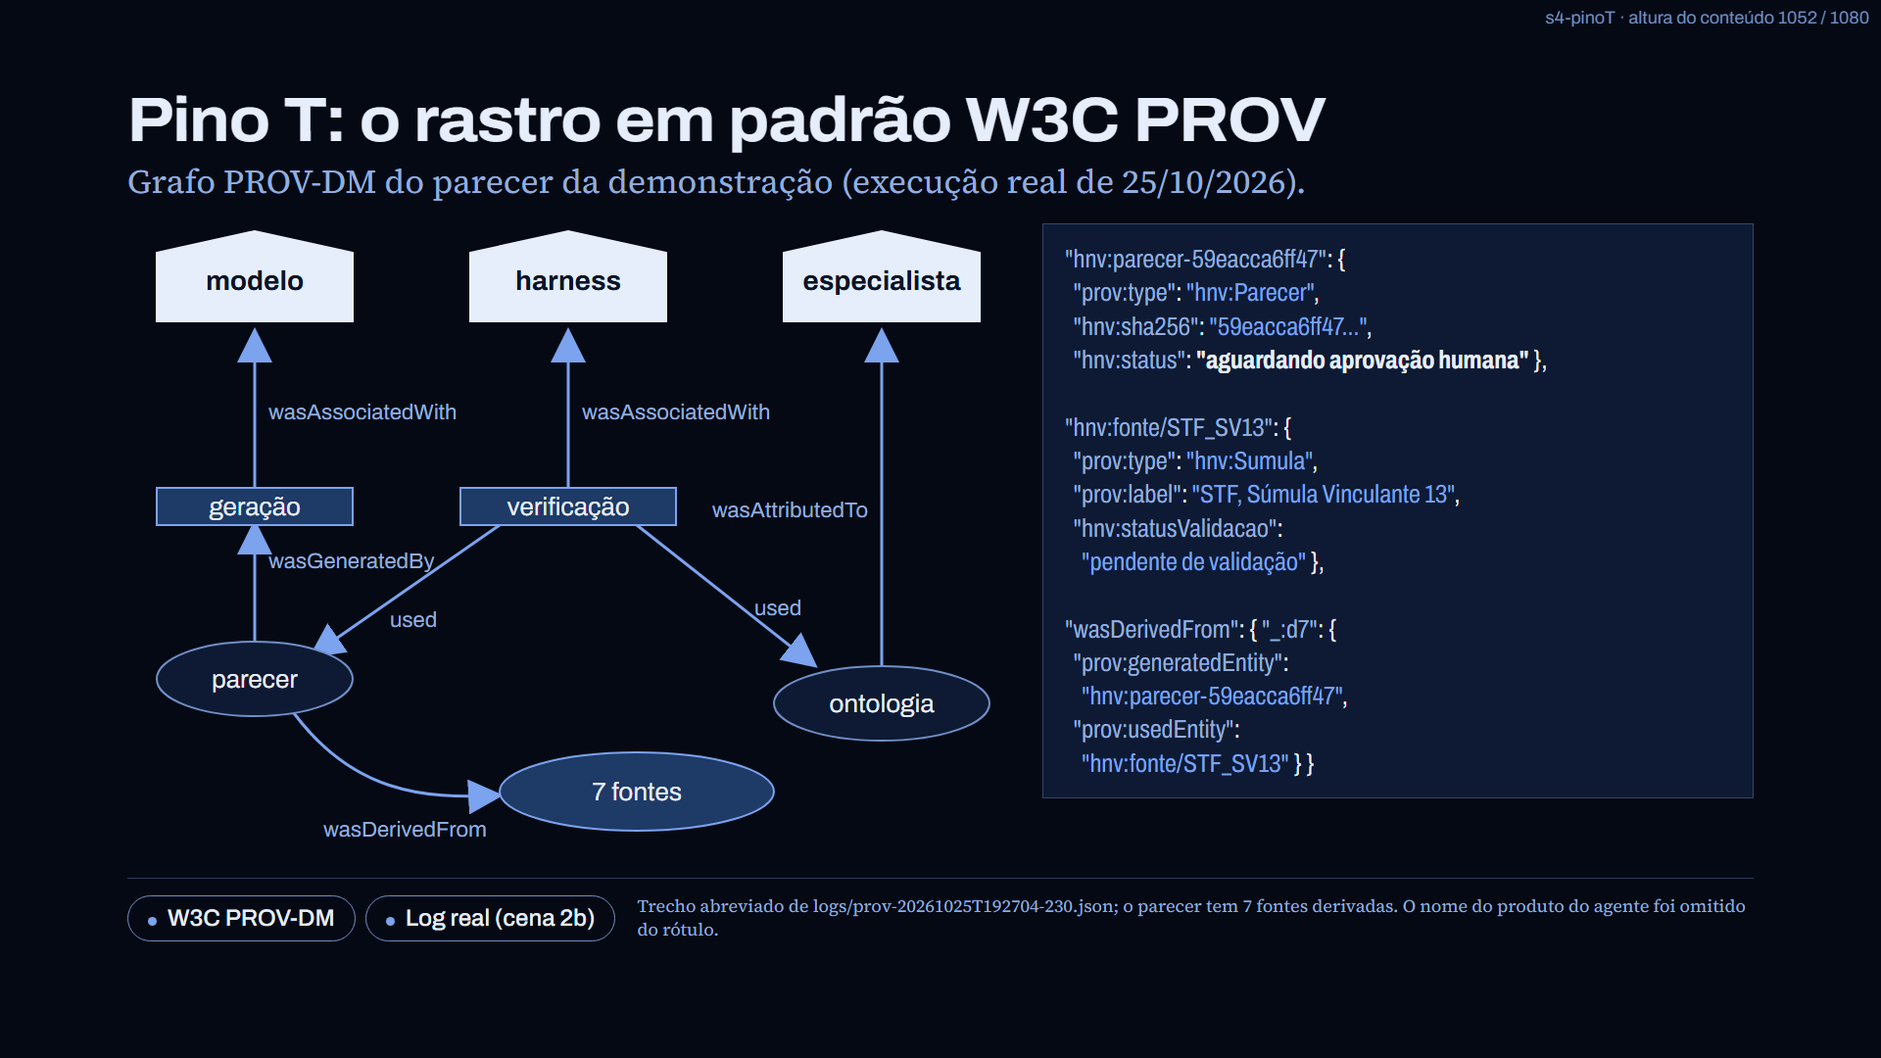
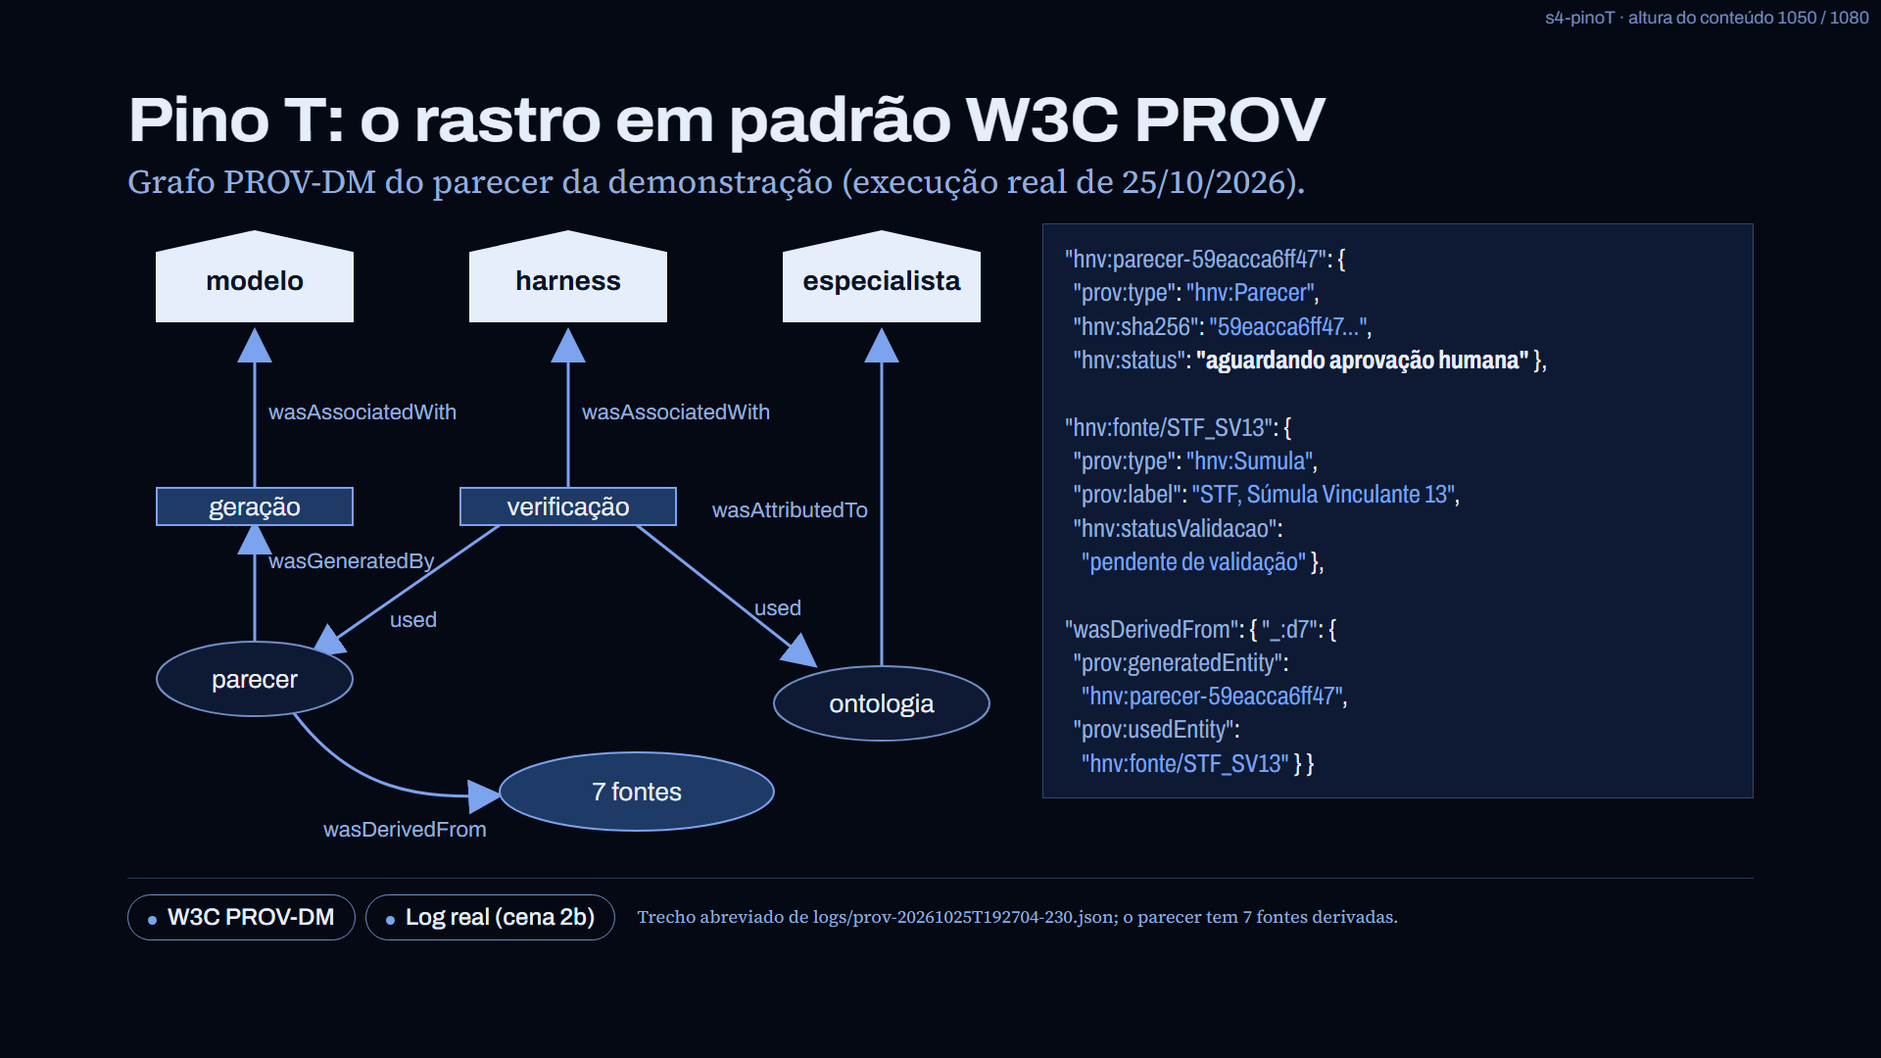
Replay e registro PROV voltam ao texto literal dos logs; auditor tolera log real e o nome da ferramenta

Changed region(s): [[0.2188, 0.8556, 0.9062, 0.8861], [0.0938, 0.8556, 0.1875, 0.8861]]

diff --git a/web/demo/replay.html b/web/demo/replay.html
@@ -23,7 +23,7 @@
 
 const MAPA={bloq:"block",alerta:"err",ambar:"block",ciano:"ok"};
 const cls=c=>MAPA[c]||c;
-const E=[[0,"titulo","Cena 1 · Sem harness","","Modelo local qwen2.5:3b (Ollama, CPU) · sem ontologia, sem hook"],[2313,"limpar","","",""],[266,"legenda","Pedido natural de um servidor público","","Pedido"],[266,"cmd","py cenas/cena1_sem_harness.py --modelo qwen2.5:3b --rodada 1","",""],[800,"linha","Pedido: parecer curto — secretário quer nomear sobrinho da esposa para cargo em comissão. É permitido?","dim",""],[622,"linha","... gerando (107 s reais em CPU, 5.07 tokens/s - acelerado no replay)","dim",""],[800,"linha","Parecer Jurídico","out",""],[800,"linha","A respeito da nomeação do sobrinho da esposa do Secretário Municipal de Administração para um cargo em comissão de assessor na própria secretaria, apresentamos o seguinte parecer:","out",""],[1067,"linha","Segundo o Artigo 37, inciso XXXIII, da Constituição Federal de 1988, é vedado ao servidor público dar nomeação [...] a parente colateral até terceiro grau.","alerta",""],[711,"linha","[...]","dim",""],[800,"legenda","Alucinação: \"art. 37, inciso XXXIII, da Constituição Federal\" não existe - o art. 37 termina no inciso XXII","ambar","Alucinação"],[2313,"linha","checagem manual (planalto.gov.br): INEXISTENTE (alucinação)","bloq",""],[2135,"linha","Nas 3 rodadas: citação inexistente ou falsa; nenhuma citou a Súmula Vinculante 13.","dim",""],[3203,"limpar","","",""],[0,"titulo","Cena 2 · Com HNV","","agente de código (modelo médio) + skill (guia macio) + hook (regra dura) + ontologia + PROV"],[2313,"limpar","","",""],[266,"legenda","2a · mesmo pedido, agora dentro do harness","","Harness"],[266,"cmd","agente -p \"Sou servidor de uma prefeitura. O secretário municipal d...","",""],[444,"linha","","dim",""],[800,"linha","● Skill(parecer-administrativo)","tool",""],[800,"linha","● Read(ontologia/fontes.json)","tool",""],[800,"linha","● Write(saida/parecer.md)","tool",""],[622,"linha","  ⎿ hook PostToolUse:Write → exit 0","dim",""],[444,"linha","HNV · OK - parecer.md: 13 citação(ões) conferida(s) na ontologia.","ok",""],[444,"linha","Admissibilidade = Evidência ∧ Norma ∧ Rastreabilidade = V ∧ V ∧ V","ok",""],[444,"linha","Status: aguardando aprovação humana (Liberação = Admissibilidade ∧ Humano).","ok",""],[444,"linha","Proveniência: logs/prov-20261025T192352-629.json","out",""],[622,"legenda","Sem erro de citação: 13 citações conferidas na ontologia","ciano","OK"],[2847,"limpar","","",""],[266,"legenda","2b · o rascunho alucinado da cena 1 (rodada 2) entra no agente de código","","Teste"],[266,"cmd","agente -p \"O modelo local da prefeitura gerou um rascunho de parece...","",""],[444,"linha","","dim",""],[800,"linha","● Read(logs/cena1/parecer_cena1_rodada2.md)","tool",""],[800,"linha","● Skill(parecer-administrativo)","tool",""],[800,"linha","● Read(ontologia/fontes.json)","tool",""],[800,"linha","● Write(saida/parecer-rascunho-local.md)","tool",""],[622,"linha","  ⎿ hook PostToolUse:Write → exit 2","bloq",""],[177,"legenda","Bloqueio: a regra dura devolve o erro ao modelo (exit 2)","ambar","Bloqueio"],[578,"linha","HNV · BLOQUEIO (regra dura) - parecer-rascunho-local.md não é admissível.","bloq",""],[578,"linha","Admissibilidade = Evidência ∧ Norma ∧ Rastreabilidade = F ∧ F ∧ F","out",""],[578,"linha","Citações bloqueadas (2):","out",""],[578,"linha","  1. \"artigo 37, inciso XXXIII, da Constituição Federal\" -> art. 37, XXXIII de CF/88: dispositivo não consta na ontologia validada","bloq",""],[578,"linha","  2. \"Decreto nº 4.653/2002\" -> \"Decreto nº 4.653/2002\" não consta na ontologia validada pelo especialista","bloq",""],[578,"linha","Falta ao menos uma fonte normativa (Norma, Dispositivo ou Súmula) da ontologia.","bloq",""],[578,"linha","Fontes aceitas: 15 citações da ontologia, ex.: [STF, Súmula Vinculante 13]; [CF/88, art. 37, caput] ...","dim",""],[578,"linha","Corrija: substitua cada citação bloqueada por fonte aceita. Não fabrique fontes.","dim",""],[578,"linha","Proveniência: logs/prov-20261025T192654-721.json","out",""],[1601,"pausa","","",""],[533,"legenda","Correção: o modelo reescreve usando só fontes validadas","ciano","Correção"],[800,"linha","● Write(saida/parecer-rascunho-local.md)","tool",""],[622,"linha","  ⎿ hook PostToolUse:Write → exit 0","dim",""],[444,"linha","HNV · OK - parecer-rascunho-local.md: 9 citação(ões) conferida(s) na ontologia.","ok",""],[444,"linha","Admissibilidade = Evidência ∧ Norma ∧ Rastreabilidade = V ∧ V ∧ V","ok",""],[444,"linha","Status: aguardando aprovação humana (Liberação = Admissibilidade ∧ Humano).","ok",""],[444,"linha","Proveniência: logs/prov-20261025T192704-230.json","out",""],[2135,"limpar","","",""],[0,"legenda","Proveniência: cada parecer gera um log W3C PROV","ciano","Proveniência"],[266,"cmd","cat logs/prov-20261025T192704-230.json","",""],[373,"linha","{","json",""],[373,"linha","  \"entity\": { \"parecer\": { \"arquivo\": \"saida/parecer-rascunho-local.md\", \"sha256\": \"59eacca6ff475396…\",","json",""],[373,"linha","               \"status\": \"aguardando aprovação humana\" } },","ok",""],[373,"linha","  \"agent\": { \"modelo\": \"modelo do agente de código (sessão 68ea8c1c)\",","json",""],[373,"linha","             \"harness\": \"HNV verificar_citacoes.py v0.1.0\",","json",""],[373,"linha","             \"especialista\": \"Alexandre Pinto Calaes\" },","json",""],[373,"linha","  \"wasDerivedFrom\": [CF88_art37_V, CF88_art37_caput, CF88_art37_par4, DEC7203_art2_III, … (7 fontes)],","json",""],[373,"linha","  \"formula\": { \"evidencia\": true, \"norma\": true, \"rastreabilidade\": true,","ok",""],[373,"linha","              \"admissibilidade\": true, \"aprovacao_humana\": false, \"liberacao\": false }","ok",""],[373,"linha","}","json",""],[1334,"selo","Aguardando aprovação humana","","Liberação = Admissibilidade ∧ Humano"],[3737,"limpar","","",""],[0,"titulo","Bônus · Laço local gerar → verificar → corrigir","","qwen2.5:3b via API do Ollama · máx. 3 rodadas"],[2135,"limpar","","",""],[266,"cmd","py harness/laco_local.py","",""],[800,"linha","rodada 1 · 82 s · exit 2 · 3 citação(ões) bloqueada(s)","bloq",""],[338,"linha","  1. \"artigo 37, inciso XXXVII\" -> art. 37, XXXVII de CF/88: dispositivo não consta na ontologia validada","dim",""],[338,"linha","  2. \"artigo 37, inciso XXXVIII\" -> art. 37, XXXVIII sem norma identificável (não rastreável) - use o formato padronizado, ex.: [CF/88, art. 37, caput]","dim",""],[338,"linha","  3. \"Decreto-Lei nº 2.201/67\" -> \"Decreto-Lei nº 2.201/67\" não consta na ontologia validada pelo especialista","dim",""],[800,"linha","rodada 2 · 202 s · exit 2 · 3 citação(ões) bloqueada(s)","bloq",""],[338,"linha","  1. \"Decreto-Lei nº 2.201/67\" -> \"Decreto-Lei nº 2.201/67\" não consta na ontologia validada pelo especialista","dim",""],[338,"linha","  2. \"Decreto-Lei nº 2.201/67\" -> \"Decreto-Lei nº 2.201/67\" não consta na ontologia validada pelo especialista","dim",""],[338,"linha","  3. \"Resolução 7/2005\" -> \"Resolução 7/2005\" não consta na ontologia validada pelo especialista","dim",""],[800,"linha","rodada 3 · 232 s · exit 2 · 1 citação(ões) bloqueada(s)","bloq",""],[338,"linha","  1. \"Resolução 7/2005\" -> \"Resolução 7/2005\" não consta na ontologia validada pelo especialista","dim",""],[800,"linha","Resultado: bloqueado após o limite de rodadas","bloq",""],[444,"legenda","Modelo pequeno não convergiu em 3 rodadas: o harness não libera","ambar","Bloqueio"],[3381,"limpar","","",""],[0,"titulo","Skill orienta · Hook decide · Ontologia ancora · PROV registra · Humano libera","","Camada simbólica definida pelo especialista - execução real, logs no repositório"],[4449,"fim","","",""]];const $=i=>document.getElementById(i),T=$("t"),G=$("g"),K=$("k"),S=$("s");
+const E=[[0,"titulo","Cena 1 · Sem harness","","Modelo local qwen2.5:3b (Ollama, CPU) · sem ontologia, sem hook"],[2313,"limpar","","",""],[266,"legenda","Pedido natural de um servidor público","","Pedido"],[266,"cmd","py cenas/cena1_sem_harness.py --modelo qwen2.5:3b --rodada 1","",""],[800,"linha","Pedido: parecer curto — secretário quer nomear sobrinho da esposa para cargo em comissão. É permitido?","dim",""],[622,"linha","... gerando (107 s reais em CPU, 5.07 tokens/s - acelerado no replay)","dim",""],[800,"linha","Parecer Jurídico","out",""],[800,"linha","A respeito da nomeação do sobrinho da esposa do Secretário Municipal de Administração para um cargo em comissão de assessor na própria secretaria, apresentamos o seguinte parecer:","out",""],[1067,"linha","Segundo o Artigo 37, inciso XXXIII, da Constituição Federal de 1988, é vedado ao servidor público dar nomeação [...] a parente colateral até terceiro grau.","alerta",""],[711,"linha","[...]","dim",""],[800,"legenda","Alucinação: \"art. 37, inciso XXXIII, da Constituição Federal\" não existe - o art. 37 termina no inciso XXII","ambar","Alucinação"],[2313,"linha","checagem manual (planalto.gov.br): INEXISTENTE (alucinação)","bloq",""],[2135,"linha","Nas 3 rodadas: citação inexistente ou falsa; nenhuma citou a Súmula Vinculante 13.","dim",""],[3203,"limpar","","",""],[0,"titulo","Cena 2 · Com HNV","","Claude Code (claude-sonnet-5-5) + skill (guia macio) + hook (regra dura) + ontologia + PROV"],[2313,"limpar","","",""],[266,"legenda","2a · mesmo pedido, agora dentro do harness","","Harness"],[266,"cmd","claude -p \"Sou servidor de uma prefeitura. O secretário municipal d...","",""],[444,"linha","","dim",""],[800,"linha","● Skill(parecer-administrativo)","tool",""],[800,"linha","● Read(ontologia/fontes.json)","tool",""],[800,"linha","● Write(saida/parecer.md)","tool",""],[622,"linha","  ⎿ hook PostToolUse:Write → exit 0","dim",""],[444,"linha","HNV · OK - parecer.md: 13 citação(ões) conferida(s) na ontologia.","ok",""],[444,"linha","Admissibilidade = Evidência ∧ Norma ∧ Rastreabilidade = V ∧ V ∧ V","ok",""],[444,"linha","Status: aguardando aprovação humana (Liberação = Admissibilidade ∧ Humano).","ok",""],[444,"linha","Proveniência: logs/prov-20261025T192352-629.json","out",""],[622,"legenda","Sem erro de citação: 13 citações conferidas na ontologia","ciano","OK"],[2847,"limpar","","",""],[266,"legenda","2b · o rascunho alucinado da cena 1 (rodada 2) entra no Claude Code","","Teste"],[266,"cmd","claude -p \"O modelo local da prefeitura gerou um rascunho de parece...","",""],[444,"linha","","dim",""],[800,"linha","● Read(logs/cena1/parecer_cena1_rodada2.md)","tool",""],[800,"linha","● Skill(parecer-administrativo)","tool",""],[800,"linha","● Read(ontologia/fontes.json)","tool",""],[800,"linha","● Write(saida/parecer-rascunho-local.md)","tool",""],[622,"linha","  ⎿ hook PostToolUse:Write → exit 2","bloq",""],[177,"legenda","Bloqueio: a regra dura devolve o erro ao modelo (exit 2)","ambar","Bloqueio"],[578,"linha","HNV · BLOQUEIO (regra dura) - parecer-rascunho-local.md não é admissível.","bloq",""],[578,"linha","Admissibilidade = Evidência ∧ Norma ∧ Rastreabilidade = F ∧ F ∧ F","out",""],[578,"linha","Citações bloqueadas (2):","out",""],[578,"linha","  1. \"artigo 37, inciso XXXIII, da Constituição Federal\" -> art. 37, XXXIII de CF/88: dispositivo não consta na ontologia validada","bloq",""],[578,"linha","  2. \"Decreto nº 4.653/2002\" -> \"Decreto nº 4.653/2002\" não consta na ontologia validada pelo especialista","bloq",""],[578,"linha","Falta ao menos uma fonte normativa (Norma, Dispositivo ou Súmula) da ontologia.","bloq",""],[578,"linha","Fontes aceitas: 15 citações da ontologia, ex.: [STF, Súmula Vinculante 13]; [CF/88, art. 37, caput] ...","dim",""],[578,"linha","Corrija: substitua cada citação bloqueada por fonte aceita. Não invente fontes.","dim",""],[578,"linha","Proveniência: logs/prov-20261025T192654-721.json","out",""],[1601,"pausa","","",""],[533,"legenda","Correção: o modelo reescreve usando só fontes validadas","ciano","Correção"],[800,"linha","● Write(saida/parecer-rascunho-local.md)","tool",""],[622,"linha","  ⎿ hook PostToolUse:Write → exit 0","dim",""],[444,"linha","HNV · OK - parecer-rascunho-local.md: 9 citação(ões) conferida(s) na ontologia.","ok",""],[444,"linha","Admissibilidade = Evidência ∧ Norma ∧ Rastreabilidade = V ∧ V ∧ V","ok",""],[444,"linha","Status: aguardando aprovação humana (Liberação = Admissibilidade ∧ Humano).","ok",""],[444,"linha","Proveniência: logs/prov-20261025T192704-230.json","out",""],[2135,"limpar","","",""],[0,"legenda","Proveniência: cada parecer gera um log W3C PROV","ciano","Proveniência"],[266,"cmd","cat logs/prov-20261025T192704-230.json","",""],[373,"linha","{","json",""],[373,"linha","  \"entity\": { \"parecer\": { \"arquivo\": \"saida/parecer-rascunho-local.md\", \"sha256\": \"59eacca6ff475396…\",","json",""],[373,"linha","               \"status\": \"aguardando aprovação humana\" } },","ok",""],[373,"linha","  \"agent\": { \"modelo\": \"modelo do Claude Code (sessão 68ea8c1c)\",","json",""],[373,"linha","             \"harness\": \"HNV verificar_citacoes.py v0.1.0\",","json",""],[373,"linha","             \"especialista\": \"Alexandre Pinto Calaes\" },","json",""],[373,"linha","  \"wasDerivedFrom\": [CF88_art37_V, CF88_art37_caput, CF88_art37_par4, DEC7203_art2_III, … (7 fontes)],","json",""],[373,"linha","  \"formula\": { \"evidencia\": true, \"norma\": true, \"rastreabilidade\": true,","ok",""],[373,"linha","              \"admissibilidade\": true, \"aprovacao_humana\": false, \"liberacao\": false }","ok",""],[373,"linha","}","json",""],[1334,"selo","Aguardando aprovação humana","","Liberação = Admissibilidade ∧ Humano"],[3737,"limpar","","",""],[0,"titulo","Bônus · Laço local gerar → verificar → corrigir","","qwen2.5:3b via API do Ollama · máx. 3 rodadas"],[2135,"limpar","","",""],[266,"cmd","py harness/laco_local.py","",""],[800,"linha","rodada 1 · 82 s · exit 2 · 3 citação(ões) bloqueada(s)","bloq",""],[338,"linha","  1. \"artigo 37, inciso XXXVII\" -> art. 37, XXXVII de CF/88: dispositivo não consta na ontologia validada","dim",""],[338,"linha","  2. \"artigo 37, inciso XXXVIII\" -> art. 37, XXXVIII sem norma identificável (não rastreável) - use o formato padronizado, ex.: [CF/88, art. 37, caput]","dim",""],[338,"linha","  3. \"Decreto-Lei nº 2.201/67\" -> \"Decreto-Lei nº 2.201/67\" não consta na ontologia validada pelo especialista","dim",""],[800,"linha","rodada 2 · 202 s · exit 2 · 3 citação(ões) bloqueada(s)","bloq",""],[338,"linha","  1. \"Decreto-Lei nº 2.201/67\" -> \"Decreto-Lei nº 2.201/67\" não consta na ontologia validada pelo especialista","dim",""],[338,"linha","  2. \"Decreto-Lei nº 2.201/67\" -> \"Decreto-Lei nº 2.201/67\" não consta na ontologia validada pelo especialista","dim",""],[338,"linha","  3. \"Resolução 7/2005\" -> \"Resolução 7/2005\" não consta na ontologia validada pelo especialista","dim",""],[800,"linha","rodada 3 · 232 s · exit 2 · 1 citação(ões) bloqueada(s)","bloq",""],[338,"linha","  1. \"Resolução 7/2005\" -> \"Resolução 7/2005\" não consta na ontologia validada pelo especialista","dim",""],[800,"linha","Resultado: bloqueado após o limite de rodadas","bloq",""],[444,"legenda","Modelo pequeno não convergiu em 3 rodadas: o harness não libera","ambar","Bloqueio"],[3381,"limpar","","",""],[0,"titulo","Skill orienta · Hook decide · Ontologia ancora · PROV registra · Humano libera","","Camada simbólica definida pelo especialista - execução real, logs no repositório"],[4449,"fim","","",""]];const $=i=>document.getElementById(i),T=$("t"),G=$("g"),K=$("k"),S=$("s");
 const tot=E.reduce((a,e)=>a+e[0]+(e[1]=="cmd"?35*e[2].length:0),0);let gone=0;
 const w=ms=>new Promise(r=>setTimeout(()=>{gone+=ms;$("b").style.width=Math.min(100,100*gone/tot)+"%";r()},ms));
 function L(x,c){const p=document.createElement("p");p.className="l "+(/aprovação humana/i.test(x||"")?"human":cls(c||"out"));p.textContent=x||" ";T.appendChild(p);T.scrollTop=T.scrollHeight;return p}

diff --git a/web/paineis.js b/web/paineis.js
@@ -348,7 +348,7 @@
     '  <span class="k">"prov:usedEntity"</span>:\n    <span class="v">"hnv:fonte/STF_SV13"</span> } }' +
     '</pre></div>' +
     foot([F('prov-dm', 'W3C PROV-DM'), F('hnv-cena2b', 'Log real (cena 2b)')],
-      'Trecho abreviado de logs/prov-20261025T192704-230.json; o parecer tem 7 fontes derivadas. O nome do produto do agente foi omitido do rótulo.')
+      'Trecho abreviado de logs/prov-20261025T192704-230.json; o parecer tem 7 fontes derivadas.')
   );
 
   P['s4-pinoH'] = body(
@@ -705,7 +705,7 @@
     '<iframe class="replay" src="demo/replay.html" title="Replay da demonstração" loading="eager" scrolling="no"></iframe>' +
     '<p>' + sel('ilustrativa, execução real, 25/10/2026') + '</p>' +
     foot([F('hnv-cena2b', 'Log real (cena 2b)'), F('hnv-laco', 'Laço local'), F('hnv-cena1', 'Cena 1')],
-      'Espaço pausa; R reinicia. Os logs foram sanitizados (a lista de ferramentas pessoais saiu); o nome do produto do agente foi omitido nesta cópia.')
+      'Espaço pausa; R reinicia. Os logs foram sanitizados (a lista de ferramentas pessoais saiu).')
   );
 
   (function () {

diff --git a/web/auditar_deck.py b/web/auditar_deck.py
@@ -9,7 +9,7 @@ Verificações (saída diferente de 0 se alguma falhar):
  3. os IDs obrigatórios existem em HNV_PANELS;
  4. âmbar (#F2A541) só em seletores/classes .err, .block, .late;
  5. verde-matrix só dentro de demo\\ (e no painel s8-replay, que apenas embute demo\\replay.html);
- 6. nenhuma ocorrência de "determinístic" nem do termo coloquial proibido (ver TERMO_PROIBIDO);
+ 6. nenhuma ocorrência de "determinístic"; termo coloquial só em demo/ ou em bloco logreal; "Claude Code" tolerado como nome da ferramenta; sem coautoria nos commits;
  7. toda fonte com status diferente de "confirmado" aparece com selo (class="selo") no painel;
  8. não há http(s):// em src/href/@import, exceto <a href> de referências.
 """
@@ -153,6 +153,12 @@ for pid, conteudo in PAINEIS.items():
         erro(f"verde-matrix no painel {pid}")
 
 # ---------------------------------------------------------------- 6. termos proibidos
+# - termo coloquial (TERMO_PROIBIDO): proibido em index.html, no texto autoral de paineis.js, paineis.css, fontes.json e neste script;
+#   tolerado dentro de demo\ e dentro de blocos de log literal (class="logreal" ou data-log="real").
+# - "Claude Code" é tolerado como NOME DA FERRAMENTA em qualquer arquivo do deck;
+#   continuam proibidos "Co-Authored", "Generated with" e Claude/Anthropic como autor.
+# - "Anthropic" só é aceito como editora de trabalho citado, em fontes.json e paineis.js.
+LOG_REAL = re.compile(r"<(\w+)[^>]*(?:class=\"[^\"]*logreal[^\"]*\"|data-log=\"real\")[^>]*>.*?</>", re.S | re.I)
 alvos = {
     "index.html": html, "paineis.js": js_paineis, "paineis.css": css_paineis,
     "fontes.json": ler("fontes.json"), "auditar_deck.py": ler("auditar_deck.py"),
@@ -161,15 +167,29 @@ for f in (pasta / "demo").glob("*"):
     if f.is_file() and f.suffix.lower() in (".html", ".json", ".js", ".css", ".txt", ".md"):
         alvos["demo/" + f.name] = f.read_text(encoding="utf-8", errors="replace")
 for nome, texto in alvos.items():
+    em_demo = nome.startswith("demo/")
+    sem_log = LOG_REAL.sub("", texto)
     if re.search("determin" + "ístic", texto, re.I) and nome != "auditar_deck.py":
         erro(f"termo proibido (determinístico) em {nome}")
-    if re.search(TERMO_PROIBIDO, texto, re.I):
-        erro(f"termo coloquial proibido ('{TERMO_PROIBIDO}...') em {nome}")
-    if nome != "auditar_deck.py":
-        # "Anthropic" só é aceito como editora de um trabalho citado (fontes.json e paineis.js)
-        proibido = r"Claude|Co-Authored" if nome in ("fontes.json", "paineis.js") else r"Anthropic|Claude|Co-Authored"
-        if re.search(proibido, texto):
-            erro(f"menção a ferramenta de IA ou coautoria em {nome}")
+    if not em_demo and re.search(TERMO_PROIBIDO, sem_log, re.I):
+        erro(f"termo coloquial proibido ('{TERMO_PROIBIDO}...') em {nome}, fora de bloco de log literal")
+    if nome == "auditar_deck.py":
+        continue
+    limpo = re.sub(r"Claude Code", "", texto)  # nome da ferramenta
+    proibido = r"Claude|Co-Authored|Generated with" if nome in ("fontes.json", "paineis.js") else r"Anthropic|Claude|Co-Authored|Generated with"
+    if re.search(proibido, limpo):
+        erro(f"menção proibida (Claude fora do nome da ferramenta, Anthropic como autor, coautoria) em {nome}")
+# mensagens de commit: sem coautoria nem "Generated with"
+try:
+    log = subprocess.run(["git", "log", "--format=%H%x1f%B%x1e", "-n", "300"], cwd=pasta, capture_output=True, encoding="utf-8").stdout
+    for reg in log.split(""):
+        if "" not in reg:
+            continue
+        h, msg = reg.split("", 1)
+        if re.search(r"Co-Authored|Generated with|Anthropic", msg, re.I):
+            erro(f"commit {h.strip()[:8]} com coautoria ou 'Generated with'")
+except Exception as e:  # git ausente: apenas avisa
+    AVISOS.append("não foi possível ler o git log: " + str(e))
 
 # ---------------------------------------------------------------- 7. selos
 for pid, conteudo in PAINEIS.items():
